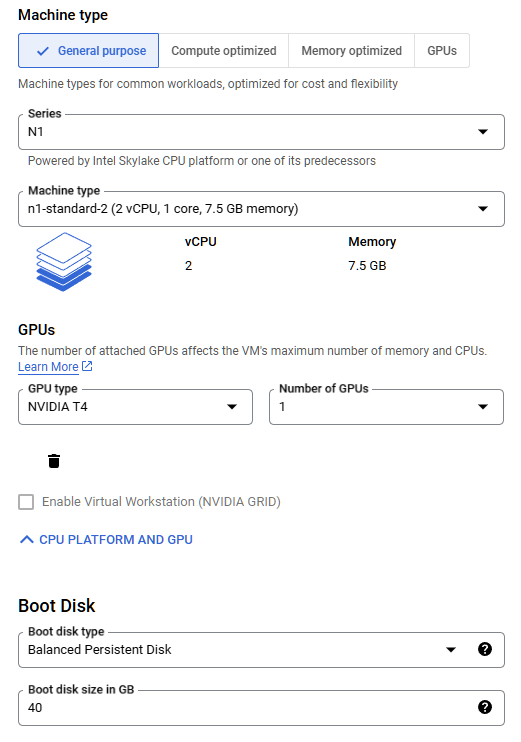
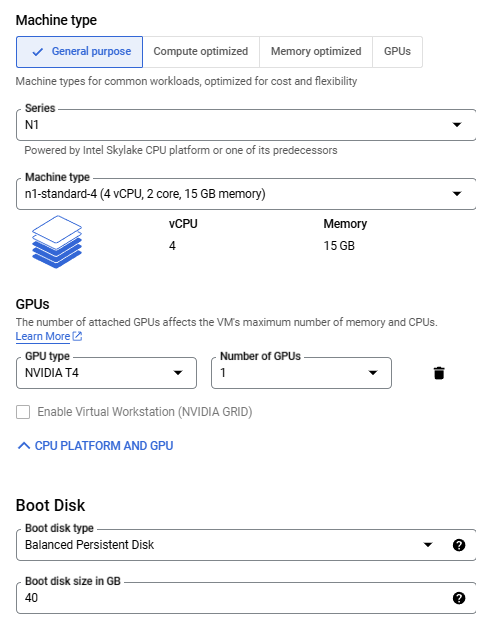
docs: updated minimum spec of machine

Changed region(s): [[0.0309, 0.0, 0.9877, 0.7469], [0.0309, 0.7767, 0.9877, 0.9858]]

diff --git a/gcp/README.md b/gcp/README.md
@@ -5,7 +5,7 @@ This guide explains how to deploy and use the Cochl.Sense Cloud API VM through t
 ## Deploy the virtual machine
 
 You need to configure the VM's resources.  
-By default, we recommend using at least `n1-standard-2` machine type (2 vCPUs, 7.5 GB memory), `NVIDIA T4` GPU, and at least `40GB of disk size`.   
+The minimum specification is the `n1-standard-2` machine type (2 vCPUs, 7.5GB memory), but we recommend using the `n1-standard-4` machine type (4 vCPUs, 15GB memory). Additionally, at least one NVIDIA T4 or better GPU and a minimum of 40GB of disk space are required.   
 Please refer to the screenshot below.  
 ![machine type](/gcp/img/instance-type.png)
 

diff --git a/gcp/test_performance/README.md b/gcp/test_performance/README.md
@@ -9,7 +9,7 @@
 
 ## Test result
 
-The test was done using the k6 tool, and we checked the maximum number of requests the system can handle without any issues.
+The test used the k6 tool to measure the maximum requests the minimum-spec system can handle without issues.
 
 ### 10 seconds file
 
